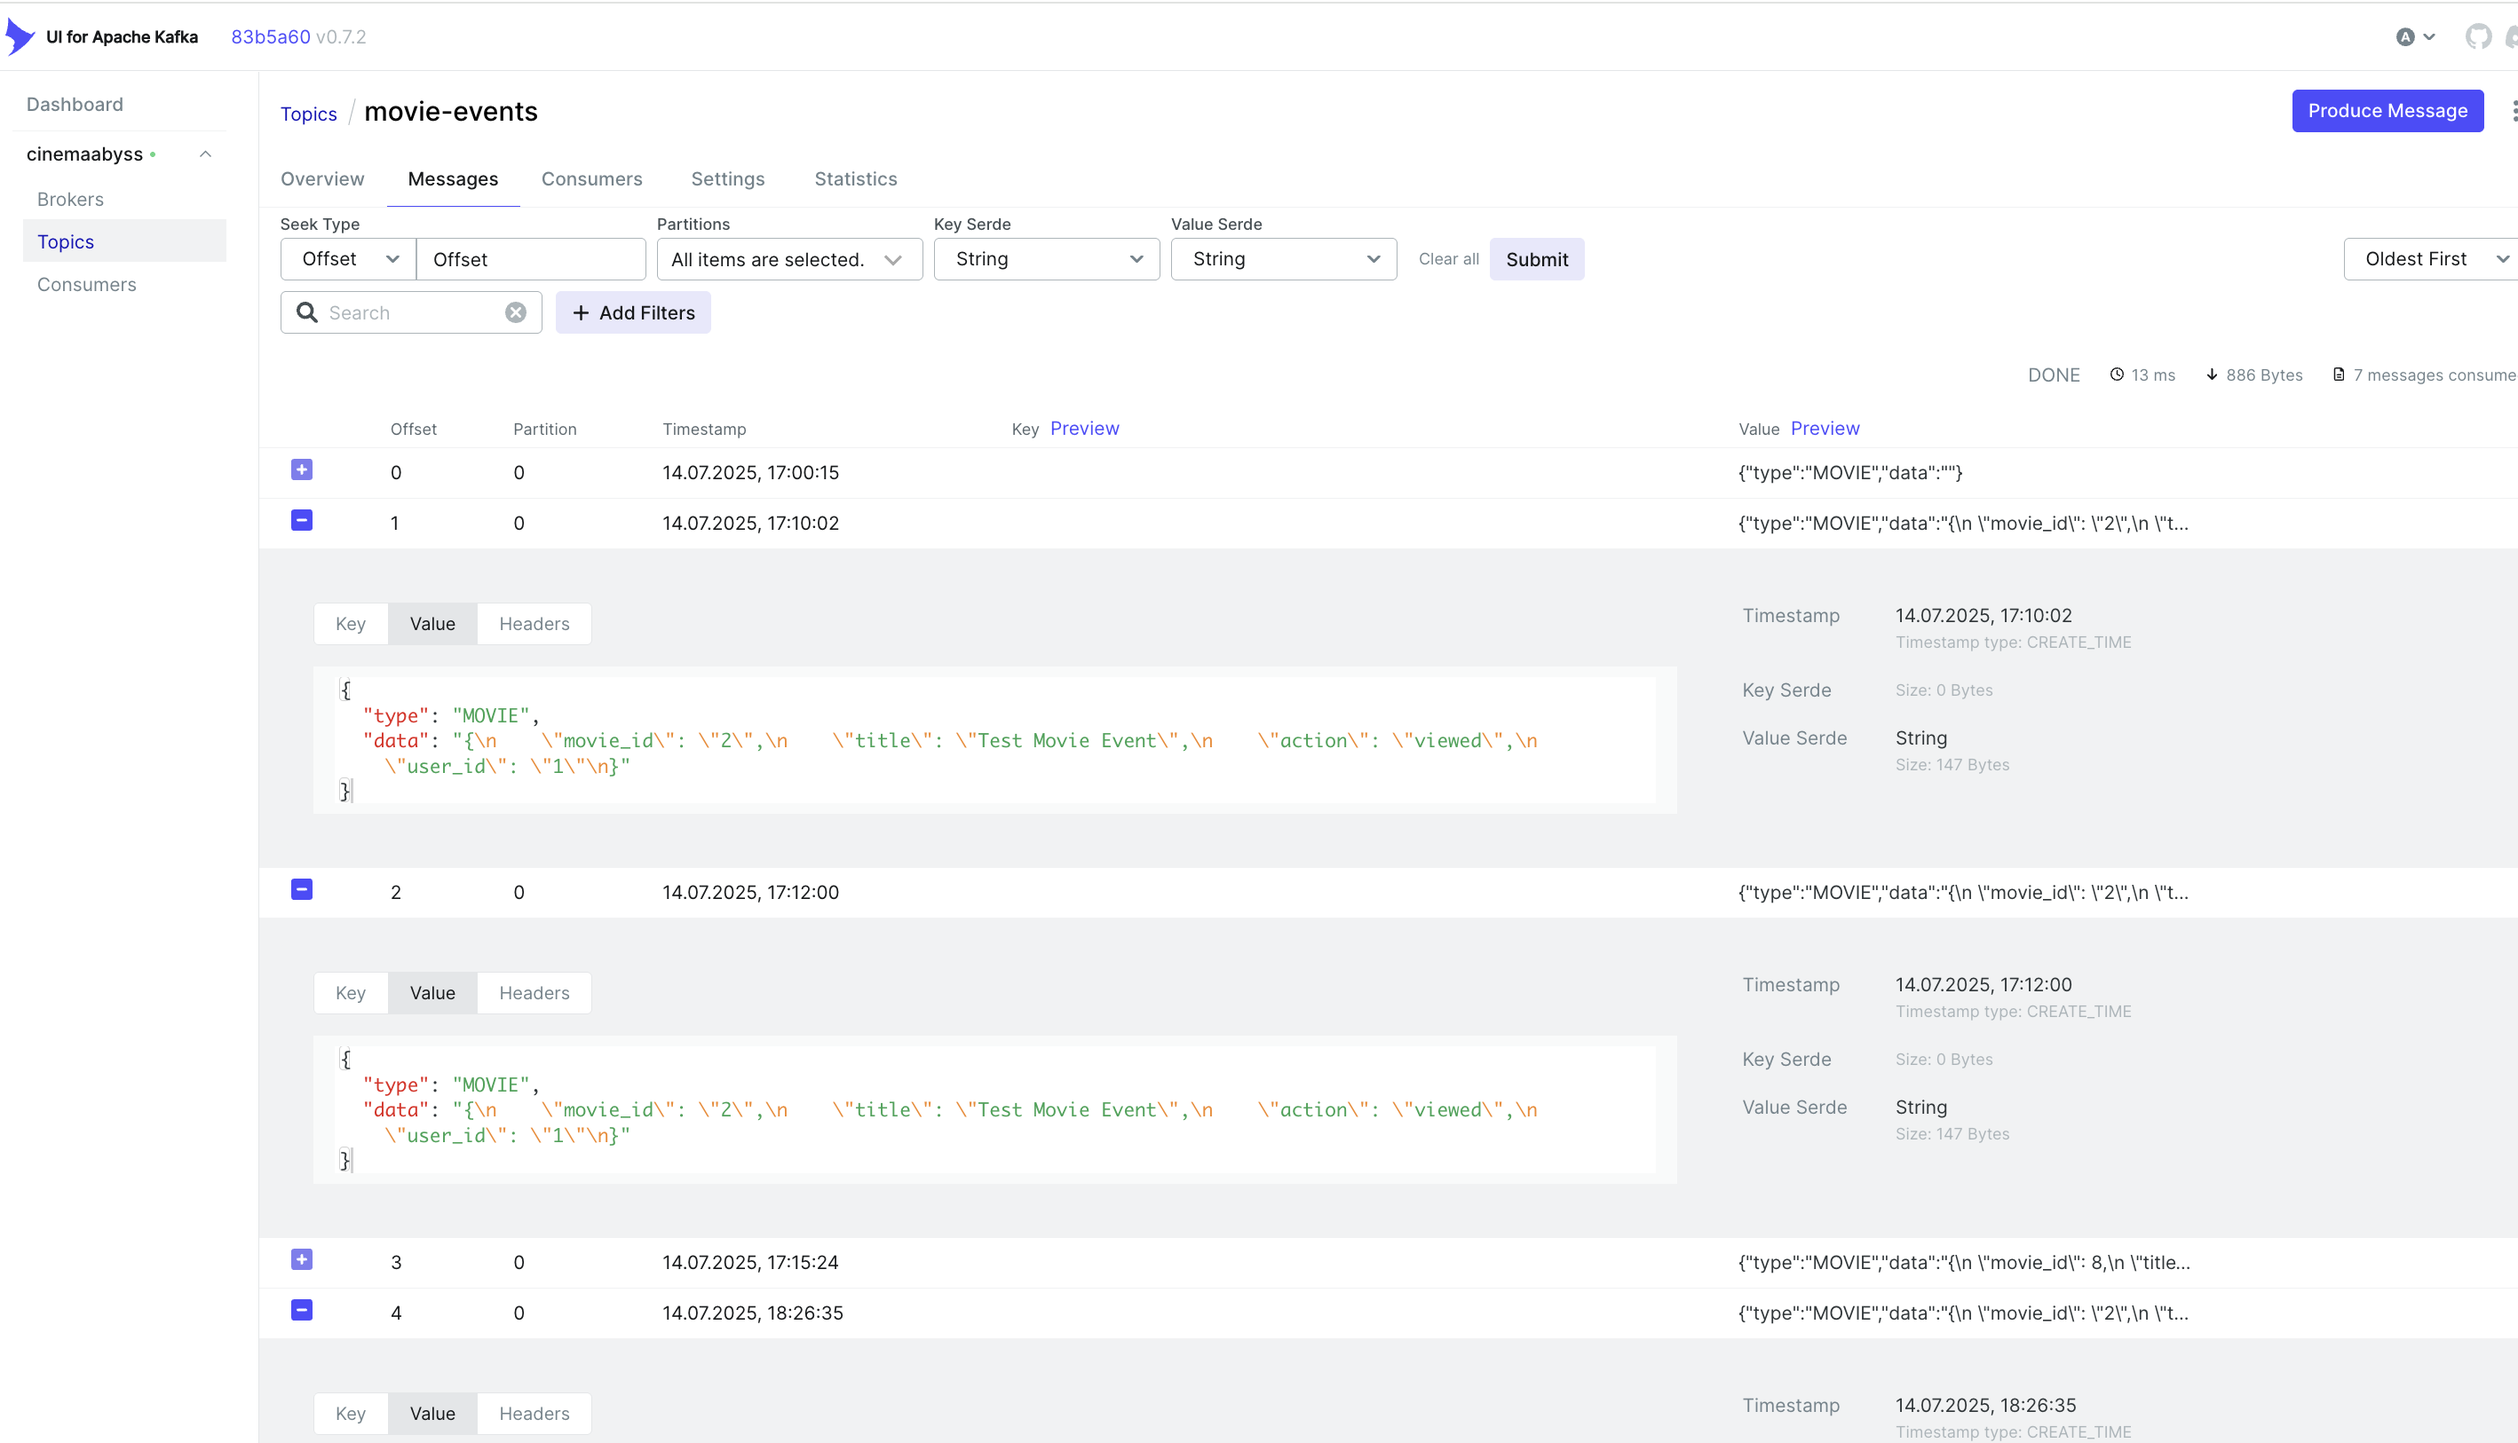
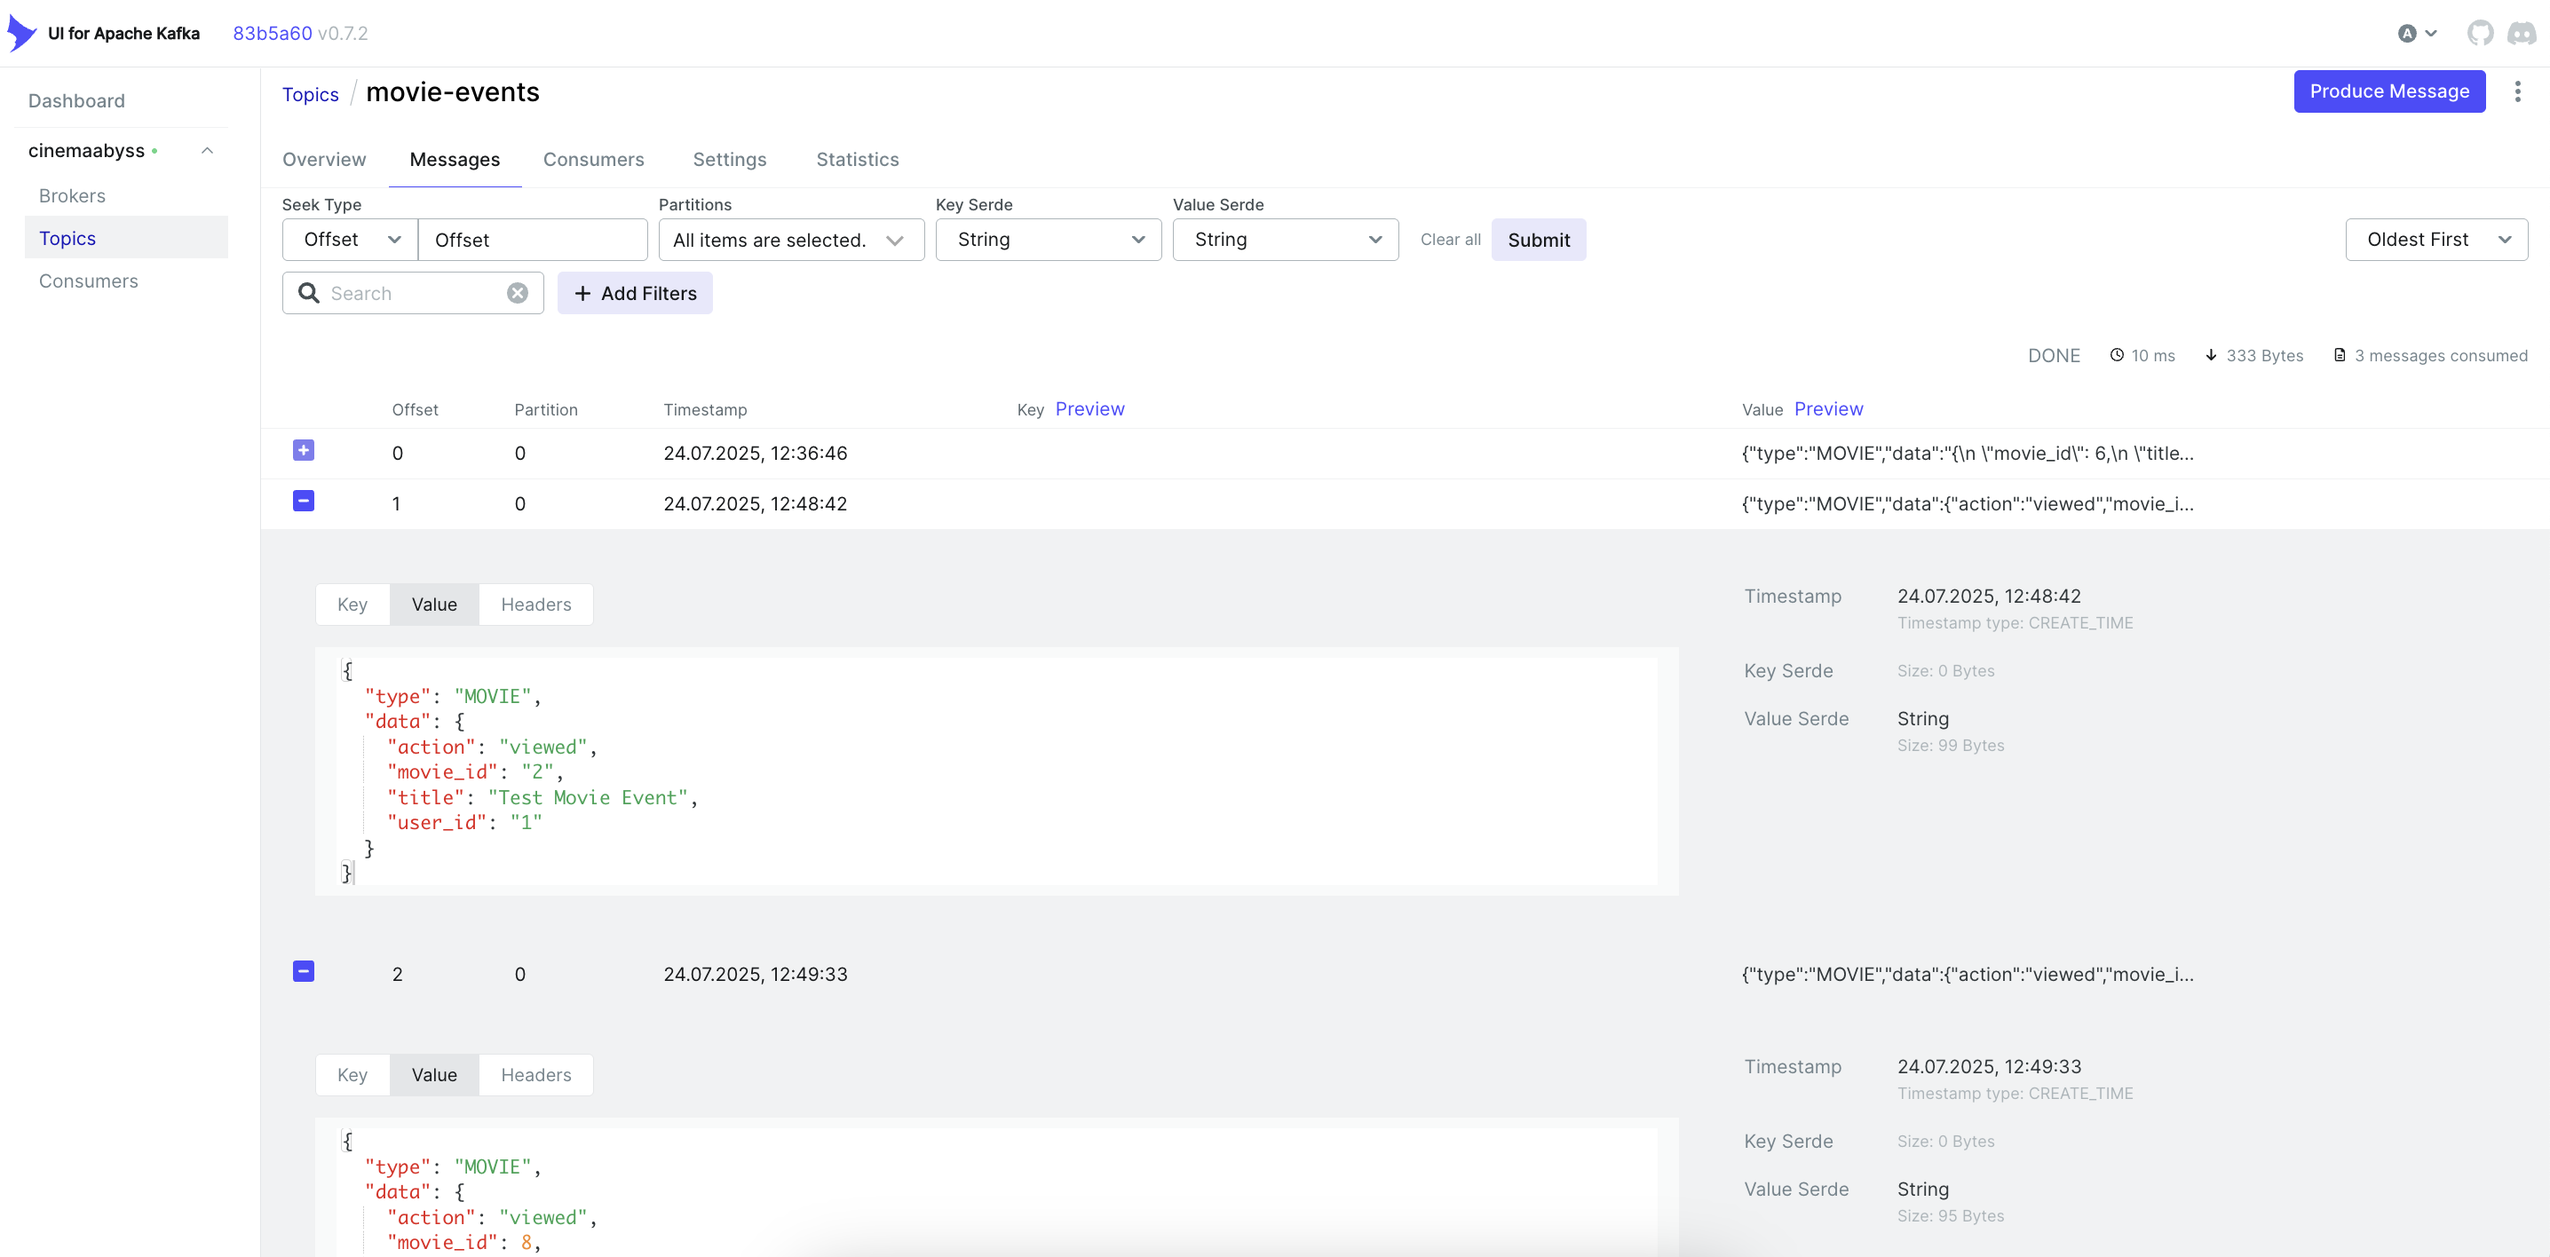
Correct Task 2: json to kafka, not string

diff --git a/src/microservices/events/handler/events.go b/src/microservices/events/handler/events.go
@@ -42,7 +42,7 @@ func (h *EventHandler) CreateUserEvent(w http.ResponseWriter, r *http.Request) {
 
 	event := model.Event{
 		Type: model.UserEvent,
-		Data: string(body),
+		Data: data,
 	}
 
 	if err := h.producer.SendEvent(h.cfg.KafkaUserTopic, event); err != nil {
@@ -70,7 +70,7 @@ func (h *EventHandler) CreatePaymentEvent(w http.ResponseWriter, r *http.Request
 
 	event := model.Event{
 		Type: model.PaymentEvent,
-		Data: string(body),
+		Data: data,
 	}
 
 	if err := h.producer.SendEvent(h.cfg.KafkaPaymentTopic, event); err != nil {
@@ -99,7 +99,7 @@ func (h *EventHandler) CreateMovieEvent(w http.ResponseWriter, r *http.Request) 
 
 	event := model.Event{
 		Type: model.MovieEvent,
-		Data: string(body),
+		Data: data,
 	}
 
 	if err := h.producer.SendEvent(h.cfg.KafkaMovieTopic, event); err != nil {

diff --git a/src/microservices/events/model/event.go b/src/microservices/events/model/event.go
@@ -9,6 +9,6 @@ const (
 )
 
 type Event struct {
-	Type EventType `json:"type"`
-	Data string    `json:"data"`
+	Type EventType   `json:"type"`
+	Data interface{} `json:"data"`
 }
